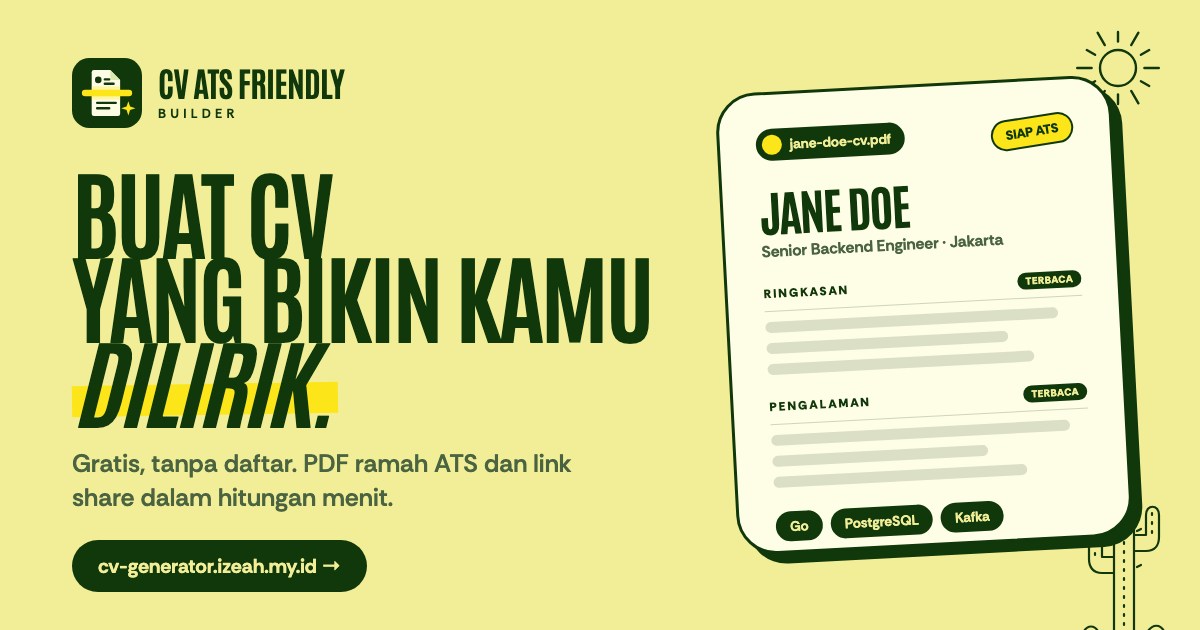
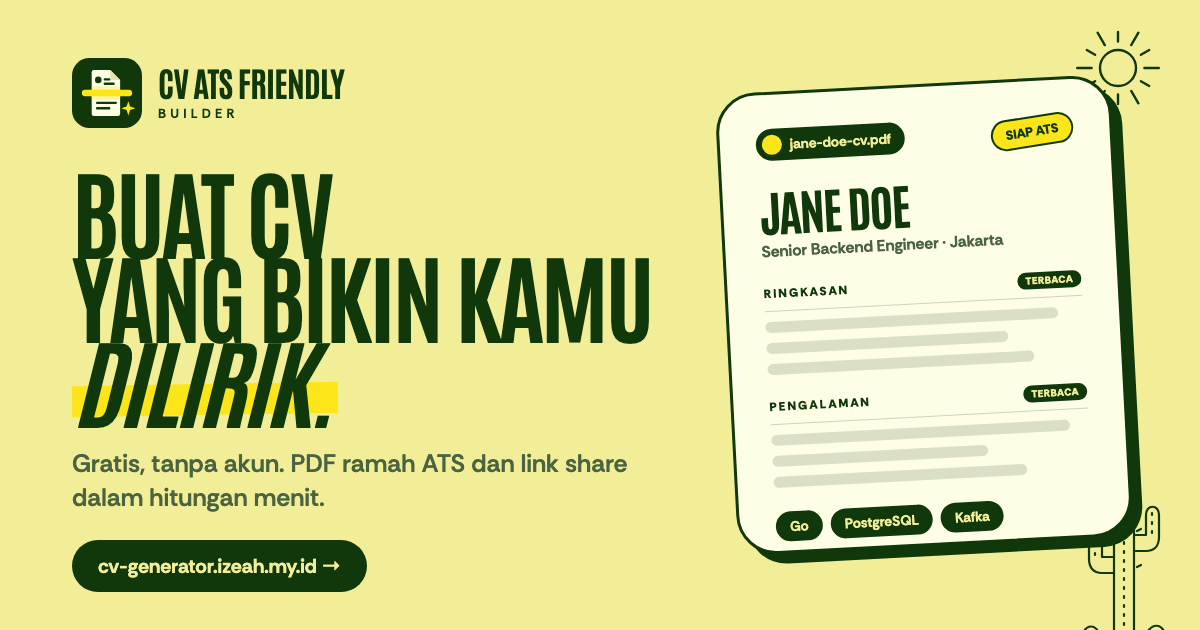
feat(landing): story list follows the active story, outside tap closes menu, copy
- Testimonials: drop the "illustrative stories" line; on mobile the people row
  glides back to the active story once scrolling stops and follows auto-advance
- Mobile menu: any click outside the dropdown closes it. The dim overlay now
  lives outside the header, whose backdrop-filter clipped it to the bar
- Copy: No sign-up -> No accounts, Tanpa daftar -> Tanpa akun (incl. OG image);
  nav reads What you get / How to use / What they say (Yang kamu dapat /
  Cara pakai / Kata mereka)

Changed region(s): [[0.185, 0.7238, 0.5242, 0.754], [0.0617, 0.754, 0.3392, 0.8143]]

diff --git a/src/lib/i18n-dict.ts b/src/lib/i18n-dict.ts
@@ -8,7 +8,7 @@ export const en = {
   meta: {
     home: {
       title: 'CV ATS Friendly Builder — Free ATS-Friendly CVs for Backend Developers',
-      description: 'Build a CV that passes ATS filters in minutes. Fill one form, preview it live, download a text-based PDF and share it as a link — free, no sign-up, your data stays in your browser.',
+      description: 'Build a CV that passes ATS filters in minutes. Fill one form, preview it live, download a text-based PDF and share it as a link — free, no accounts, your data stays in your browser.',
     },
     create: {
       title: 'Build your CV — CV ATS Friendly Builder',
@@ -47,19 +47,19 @@ export const en = {
     delete: 'Delete',
     replace: 'Replace',
     logoAlt: 'CV ATS Friendly Builder logo',
-    freeNoSignup: 'Free · No sign-up',
+    freeNoSignup: 'Free · No accounts',
   },
-  nav: { features: 'Features', how: 'How it works', testimonials: 'Stories', faq: 'FAQ', open: 'Open menu', close: 'Close menu' },
+  nav: { features: 'What you get', how: 'How to use', testimonials: 'What they say', faq: 'FAQ', open: 'Open menu', close: 'Close menu' },
   hero: {
     badgeFree: 'Free',
-    badgeNoSignup: 'No sign-up',
+    badgeNoSignup: 'No accounts',
     titleA: 'Build a CV',
     titleB: 'that gets you',
     titleC: 'hired.',
     lead: 'An ATS-friendly CV builder for {who}. Fill one form, preview it instantly, export a clean PDF — everything stays in your browser.',
     leadWho: 'Backend Developers',
     cta: 'Start building your CV',
-    secondary: 'See how it works',
+    secondary: 'See how to use it',
     checks: ['ATS compliant', 'Live preview', 'PDF & JSON export'],
   },
   mockup: {
@@ -79,7 +79,7 @@ export const en = {
       { title: 'ATS-Optimized', description: 'Clean, parseable format that passes through Applicant Tracking Systems with zero friction.' },
       { title: 'PDF Export', description: 'Real text, not screenshots — a PDF that job portals and ATS parsers can actually read.' },
       { title: 'Backend Focused', description: 'Tailored for Backend Developers. Showcase your projects, tech stack, and system design skills.' },
-      { title: 'Instant Build', description: 'Fill the form, hit Preview & Build. Your professional CV is ready in seconds — no sign-up required.' },
+      { title: 'Instant Build', description: 'Fill the form, hit Preview & Build. Your professional CV is ready in seconds — no accounts required.' },
       { title: 'Privacy First', description: 'All data stored locally in your browser. Zero server uploads. Your data stays with you.' },
       { title: 'Backup & Restore', description: 'Export any CV as JSON and import it on another browser or device in one click.' },
     ],
@@ -164,7 +164,6 @@ export const en = {
     titleA: 'Fewer rejections,',
     titleB: 'more callbacks',
     lead: 'What happens when a CV is finally easy to read — for the ATS and for the person in HR.',
-    note: 'Illustrative stories — names and details are examples, not real users.',
     us: 'CV ATS Friendly Builder',
     label: 'Animated stories of job seekers getting callbacks after rebuilding their CV',
     pick: 'Show story from {name}',
@@ -249,7 +248,7 @@ export const en = {
     text: 'Build a CV that passes ATS filters, impresses hiring managers, and gets you to the interview stage.',
     button: 'Build your CV now',
   },
-  sticky: { text: 'Free · No sign-up', button: 'Build your CV' },
+  sticky: { text: 'Free · No accounts', button: 'Build your CV' },
   footer: { tagline: 'Built for Backend Developers. All data stored locally in your browser.' },
   sidebar: {
     newCV: 'New CV',
@@ -375,7 +374,7 @@ export const en = {
     emptyTitle: 'This CV is still empty',
     emptyBody: 'Add a summary, skills or work experience to fill it in.',
     sharedBannerTitle: 'Like this CV?',
-    sharedBannerText: 'Build your own ATS-friendly CV in minutes — free, no sign-up.',
+    sharedBannerText: 'Build your own ATS-friendly CV in minutes — free, no accounts.',
     sharedBannerCta: 'Build mine free',
     builtWith: 'Built with CV ATS Friendly Builder',
   },
@@ -431,7 +430,7 @@ export const id: Dict = {
   meta: {
     home: {
       title: 'CV ATS Friendly Builder — Buat CV ATS-Friendly Gratis untuk Backend Developer',
-      description: 'Buat CV yang lolos filter ATS dalam hitungan menit. Isi satu formulir, lihat pratinjau langsung, unduh PDF berbasis teks, dan bagikan lewat link — gratis, tanpa daftar, data tetap di browser kamu.',
+      description: 'Buat CV yang lolos filter ATS dalam hitungan menit. Isi satu formulir, lihat pratinjau langsung, unduh PDF berbasis teks, dan bagikan lewat link — gratis, tanpa akun, data tetap di browser kamu.',
     },
     create: {
       title: 'Buat CV — CV ATS Friendly Builder',
@@ -470,19 +469,19 @@ export const id: Dict = {
     delete: 'Hapus',
     replace: 'Timpa',
     logoAlt: 'Logo CV ATS Friendly Builder',
-    freeNoSignup: 'Gratis · Tanpa daftar',
+    freeNoSignup: 'Gratis · Tanpa akun',
   },
-  nav: { features: 'Fitur', how: 'Cara kerja', testimonials: 'Cerita', faq: 'FAQ', open: 'Buka menu', close: 'Tutup menu' },
+  nav: { features: 'Yang kamu dapat', how: 'Cara pakai', testimonials: 'Kata mereka', faq: 'FAQ', open: 'Buka menu', close: 'Tutup menu' },
   hero: {
     badgeFree: 'Gratis',
-    badgeNoSignup: 'Tanpa daftar',
+    badgeNoSignup: 'Tanpa akun',
     titleA: 'Buat CV',
     titleB: 'yang bikin kamu',
     titleC: 'dilirik.',
     lead: 'Pembuat CV ramah ATS untuk {who}. Isi satu formulir, lihat pratinjaunya langsung, unduh PDF yang rapi — semua data tetap di browser kamu.',
     leadWho: 'Backend Developer',
     cta: 'Mulai buat CV kamu',
-    secondary: 'Lihat cara kerjanya',
+    secondary: 'Lihat cara pakainya',
     checks: ['Sesuai standar ATS', 'Pratinjau langsung', 'Ekspor PDF & JSON'],
   },
   mockup: {
@@ -502,7 +501,7 @@ export const id: Dict = {
       { title: 'Optimal untuk ATS', description: 'Format bersih dan mudah dibaca yang lolos Applicant Tracking System tanpa hambatan.' },
       { title: 'Ekspor PDF', description: 'Teks asli, bukan tangkapan layar — PDF yang benar-benar bisa dibaca portal kerja dan parser ATS.' },
       { title: 'Fokus Backend', description: 'Disesuaikan untuk Backend Developer. Tonjolkan proyek, tech stack, dan kemampuan system design kamu.' },
-      { title: 'Langsung Jadi', description: 'Isi formulir, tekan Pratinjau & Buat CV. CV profesionalmu siap dalam hitungan detik — tanpa perlu daftar.' },
+      { title: 'Langsung Jadi', description: 'Isi formulir, tekan Pratinjau & Buat CV. CV profesionalmu siap dalam hitungan detik — tanpa perlu akun.' },
       { title: 'Privasi Utama', description: 'Semua data tersimpan di browser kamu. Tidak ada yang diunggah ke server. Datamu tetap milikmu.' },
       { title: 'Cadangkan & Pulihkan', description: 'Ekspor CV mana pun sebagai JSON lalu impor di browser atau perangkat lain dalam satu klik.' },
     ],
@@ -587,7 +586,6 @@ export const id: Dict = {
     titleA: 'Lebih jarang ditolak,',
     titleB: 'lebih sering dipanggil',
     lead: 'Begini jadinya kalau CV akhirnya mudah dibaca — oleh ATS dan oleh orang di HR.',
-    note: 'Cerita ilustrasi — nama dan detail hanya contoh, bukan pengguna asli.',
     us: 'CV ATS Friendly Builder',
     label: 'Cerita animasi pencari kerja yang mulai dipanggil interview setelah membuat ulang CV-nya',
     pick: 'Tampilkan cerita {name}',
@@ -672,7 +670,7 @@ export const id: Dict = {
     text: 'Buat CV yang lolos filter ATS, memikat hiring manager, dan membawamu ke tahap interview.',
     button: 'Buat CV sekarang',
   },
-  sticky: { text: 'Gratis · Tanpa daftar', button: 'Buat CV kamu' },
+  sticky: { text: 'Gratis · Tanpa akun', button: 'Buat CV kamu' },
   footer: { tagline: 'Dibuat untuk Backend Developer. Semua data tersimpan di browser kamu.' },
   sidebar: {
     newCV: 'CV Baru',
@@ -798,7 +796,7 @@ export const id: Dict = {
     emptyTitle: 'CV ini masih kosong',
     emptyBody: 'Tambahkan ringkasan, keahlian, atau pengalaman kerja untuk mengisinya.',
     sharedBannerTitle: 'Suka CV ini?',
-    sharedBannerText: 'Buat CV ramah ATS milikmu sendiri dalam hitungan menit — gratis, tanpa daftar.',
+    sharedBannerText: 'Buat CV ramah ATS milikmu sendiri dalam hitungan menit — gratis, tanpa akun.',
     sharedBannerCta: 'Buat punyaku gratis',
     builtWith: 'Dibuat dengan CV ATS Friendly Builder',
   },

diff --git a/src/components/SiteChrome.tsx b/src/components/SiteChrome.tsx
@@ -1,10 +1,11 @@
-import { useEffect, useState } from "react";
+import { useEffect, useRef, useState } from "react";
 import { Link, useLocation, useNavigate } from "react-router-dom";
 import { ArrowRight, Menu, X } from "lucide-react";
 import { Button } from "@/components/ui/button";
 import { LanguageSwitcher } from "@/components/Language";
 import { LogoMark, Wordmark } from "@/components/Illustrations";
 import { useI18n } from "@/lib/i18n";
+import { cn } from "@/lib/utils";
 
 /** Logo link to home. */
 export function BrandLink({ size = "md" }: { size?: "sm" | "md" }) {
@@ -41,47 +42,64 @@ export function SiteHeader() {
     const setOpen = (v: boolean | ((prev: boolean) => boolean)) =>
         setOpenAt((typeof v === "function" ? v(open) : v) ? here : null);
 
+    const panel = useRef<HTMLDivElement>(null);
+    const toggle = useRef<HTMLButtonElement>(null);
+
     useEffect(() => {
         if (!open) return;
-        const onKey = (e: KeyboardEvent) => e.key === "Escape" && setOpenAt(null);
+        const close = () => setOpenAt(null);
+        const onKey = (e: KeyboardEvent) => e.key === "Escape" && close();
+        // A click anywhere outside the dropdown closes it; the toggle button handles itself.
+        // composedPath, not contains(): the clicked Menu icon is already swapped for the X by now.
+        const onClick = (e: MouseEvent) => {
+            const path = e.composedPath();
+            if (!path.some((n) => n === panel.current || n === toggle.current)) close();
+        };
         window.addEventListener("keydown", onKey);
-        return () => window.removeEventListener("keydown", onKey);
+        document.addEventListener("click", onClick);
+        return () => {
+            window.removeEventListener("keydown", onKey);
+            document.removeEventListener("click", onClick);
+        };
     }, [open]);
 
     return (
-        <header className="sticky top-0 z-50 glass border-b border-forest/15">
-            <div className="relative max-w-[1200px] mx-auto px-5 sm:px-10 h-16 flex items-center justify-between gap-3">
-                <BrandLink />
-                <nav className="hidden lg:flex items-center gap-8 text-sm font-bold" aria-label={t.common.home}>
-                    {sections.map((s) => (
-                        <a key={s.href} href={s.href} className="hover:underline underline-offset-4">
-                            {s.label}
-                        </a>
-                    ))}
-                </nav>
-                <div className="flex items-center gap-2">
-                    <LanguageSwitcher compact className="sm:hidden" />
-                    <LanguageSwitcher className="hidden sm:inline-flex" />
-                    <Button size="sm" onClick={() => navigate("/create")} className="hidden sm:inline-flex">
-                        {t.common.buildCV} <ArrowRight className="w-3.5 h-3.5" />
-                    </Button>
-                    <button
-                        type="button"
-                        onClick={() => setOpen((v) => !v)}
-                        aria-expanded={open}
-                        aria-controls="mobile-menu"
-                        aria-label={open ? t.nav.close : t.nav.open}
-                        className="lg:hidden w-10 h-10 rounded-full border border-foreground bg-card flex items-center justify-center cursor-pointer hover:bg-secondary transition-colors"
-                    >
-                        {open ? <X className="w-4 h-4" /> : <Menu className="w-4 h-4" />}
-                    </button>
+        <>
+            {/* Outside the header: its backdrop-filter would clip a fixed child to the bar. Sits above the sticky CTA. */}
+            {open && <div className="lg:hidden fixed inset-0 z-[95] bg-forest/30 animate-fade-in" aria-hidden="true" />}
+            <header className={cn("sticky top-0 glass border-b border-forest/15", open ? "z-[96]" : "z-50")}>
+                <div className="relative max-w-[1200px] mx-auto px-5 sm:px-10 h-16 flex items-center justify-between gap-3">
+                    <BrandLink />
+                    <nav className="hidden lg:flex items-center gap-8 text-sm font-bold" aria-label={t.common.home}>
+                        {sections.map((s) => (
+                            <a key={s.href} href={s.href} className="hover:underline underline-offset-4">
+                                {s.label}
+                            </a>
+                        ))}
+                    </nav>
+                    <div className="flex items-center gap-2">
+                        <LanguageSwitcher compact className="sm:hidden" />
+                        <LanguageSwitcher className="hidden sm:inline-flex" />
+                        <Button size="sm" onClick={() => navigate("/create")} className="hidden sm:inline-flex">
+                            {t.common.buildCV} <ArrowRight className="w-3.5 h-3.5" />
+                        </Button>
+                        <button
+                            ref={toggle}
+                            type="button"
+                            onClick={() => setOpen((v) => !v)}
+                            aria-expanded={open}
+                            aria-controls="mobile-menu"
+                            aria-label={open ? t.nav.close : t.nav.open}
+                            className="lg:hidden w-10 h-10 rounded-full border border-foreground bg-card flex items-center justify-center cursor-pointer hover:bg-secondary transition-colors"
+                        >
+                            {open ? <X className="w-4 h-4" /> : <Menu className="w-4 h-4" />}
+                        </button>
+                    </div>
                 </div>
-            </div>
 
-            {open && (
-                <>
-                    <div className="lg:hidden fixed inset-0 top-16 bg-forest/30 animate-fade-in" onClick={() => setOpen(false)} />
+                {open && (
                     <div
+                        ref={panel}
                         id="mobile-menu"
                         className="lg:hidden absolute inset-x-0 top-full border-b border-foreground bg-card animate-slide-down"
                     >
@@ -106,9 +124,9 @@ export function SiteHeader() {
                             </div>
                         </nav>
                     </div>
-                </>
-            )}
-        </header>
+                )}
+            </header>
+        </>
     );
 }
 

diff --git a/src/components/Testimonials.tsx b/src/components/Testimonials.tsx
@@ -1,7 +1,6 @@
 // Testimonials as DM threads: messages type in one by one, the reply gets a
-// reaction, an outcome stamp lands, then the next story starts. The stories are
-// illustrative and labelled as such in the UI (see t.testimonials.note).
-import { useEffect, useState } from "react";
+// reaction, an outcome stamp lands, then the next story starts.
+import { useEffect, useRef, useState } from "react";
 import { BadgeCheck } from "lucide-react";
 import { cn, prefersReducedMotion } from "@/lib/utils";
 import { fill, useI18n } from "@/lib/i18n";
@@ -24,6 +23,17 @@ function TypingDots({ dark }: { dark?: boolean }) {
     );
 }
 
+/** Scrolls a horizontal list so its i-th item sits in the middle (no-op when the list doesn't scroll). */
+function centerItem(list: HTMLElement | null, i: number, smooth: boolean) {
+    const item = list?.children[i] as HTMLElement | undefined;
+    if (!list || !item) return;
+    const offset = item.getBoundingClientRect().left - list.getBoundingClientRect().left;
+    list.scrollTo({
+        left: list.scrollLeft + offset - (list.clientWidth - item.offsetWidth) / 2,
+        behavior: smooth ? "smooth" : "auto",
+    });
+}
+
 export default function Testimonials() {
     const { t } = useI18n();
     const tm = t.testimonials;
@@ -38,6 +48,15 @@ export default function Testimonials() {
     const [leaving, setLeaving] = useState(false);
     const next = story.messages[shown];
     const lastThem = story.messages.map((m) => m.from).lastIndexOf("them");
+    const listRef = useRef<HTMLUListElement>(null);
+    const settle = useRef(0);
+
+    // Mobile: the people row follows the active story, and glides back to it once the user stops scrolling.
+    useEffect(() => centerItem(listRef.current, idx, !reduced), [idx, reduced]);
+    const onListScroll = () => {
+        clearTimeout(settle.current);
+        settle.current = window.setTimeout(() => centerItem(listRef.current, idx, !reduced), 700);
+    };
 
     const select = (i: number) => {
         setIdx(i);
@@ -83,13 +102,16 @@ export default function Testimonials() {
                     {tm.titleB}
                 </h2>
                 <p className="mt-5 text-lg text-muted-foreground leading-relaxed max-w-md">{tm.lead}</p>
-                <p className="mt-3 text-xs font-bold text-muted-foreground">{tm.note}</p>
 
-                <ul className="mt-8 flex lg:flex-col gap-3 overflow-x-auto snap-x pb-2 -mx-5 px-5 sm:-mx-10 sm:px-10 lg:mx-0 lg:px-0 lg:overflow-visible">
+                <ul
+                    ref={listRef}
+                    onScroll={onListScroll}
+                    className="mt-8 flex lg:flex-col gap-3 overflow-x-auto pb-2 -mx-5 px-5 sm:-mx-10 sm:px-10 lg:mx-0 lg:px-0 lg:overflow-visible"
+                >
                     {tm.items.map((person, i) => {
                         const active = i === idx;
                         return (
-                            <li key={person.name} className="snap-start shrink-0">
+                            <li key={person.name} className="shrink-0">
                                 <button
                                     type="button"
                                     onClick={() => select(i)}
